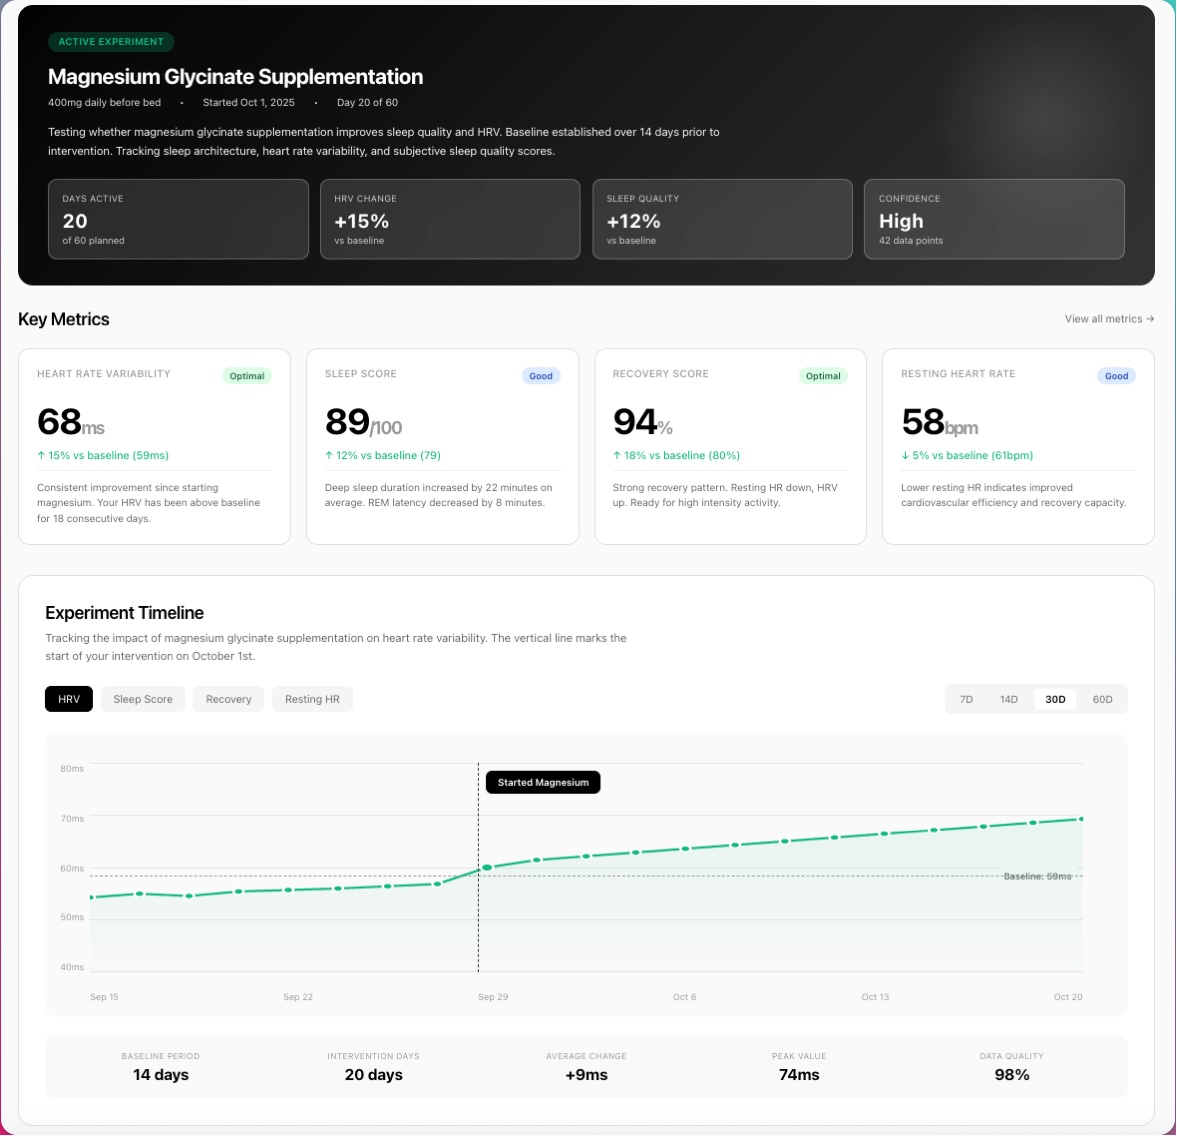
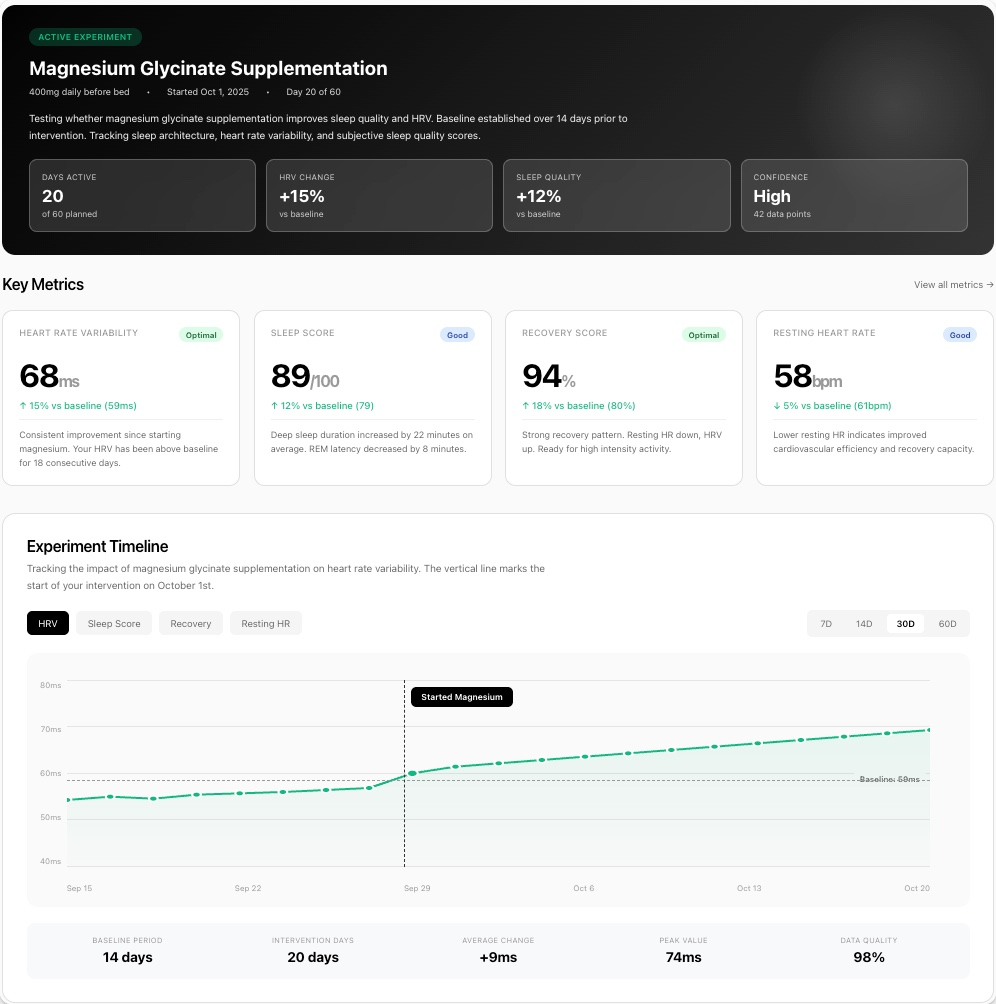
Remove white outline styling from dashboard screenshot for cleaner appearance

diff --git a/index.html b/index.html
@@ -768,8 +768,8 @@
                 <p style="font-size: 1.1rem; color: #666; margin-bottom: 40px; max-width: 600px; margin-left: auto; margin-right: auto;">
                     Track your interventions with detailed metrics, timeline graphs, and clear insights on what's working for your unique biology.
                 </p>
-                <div style="background: #fff; border-radius: 20px; padding: 20px; box-shadow: 0 10px 40px rgba(0,0,0,0.1); border: 1px solid #e0e0e0;">
-                    <img src="assets/dashboard.jpg" alt="meports Dashboard - Active Experiment Tracking" style="width: 100%; height: auto; border-radius: 12px; max-width: 800px;">
+                <div style="border-radius: 20px; overflow: hidden; box-shadow: 0 10px 40px rgba(0,0,0,0.1);">
+                    <img src="assets/dashboard.jpg" alt="meports Dashboard - Active Experiment Tracking" style="width: 100%; height: auto; max-width: 800px;">
                 </div>
             </div>
         </div>
